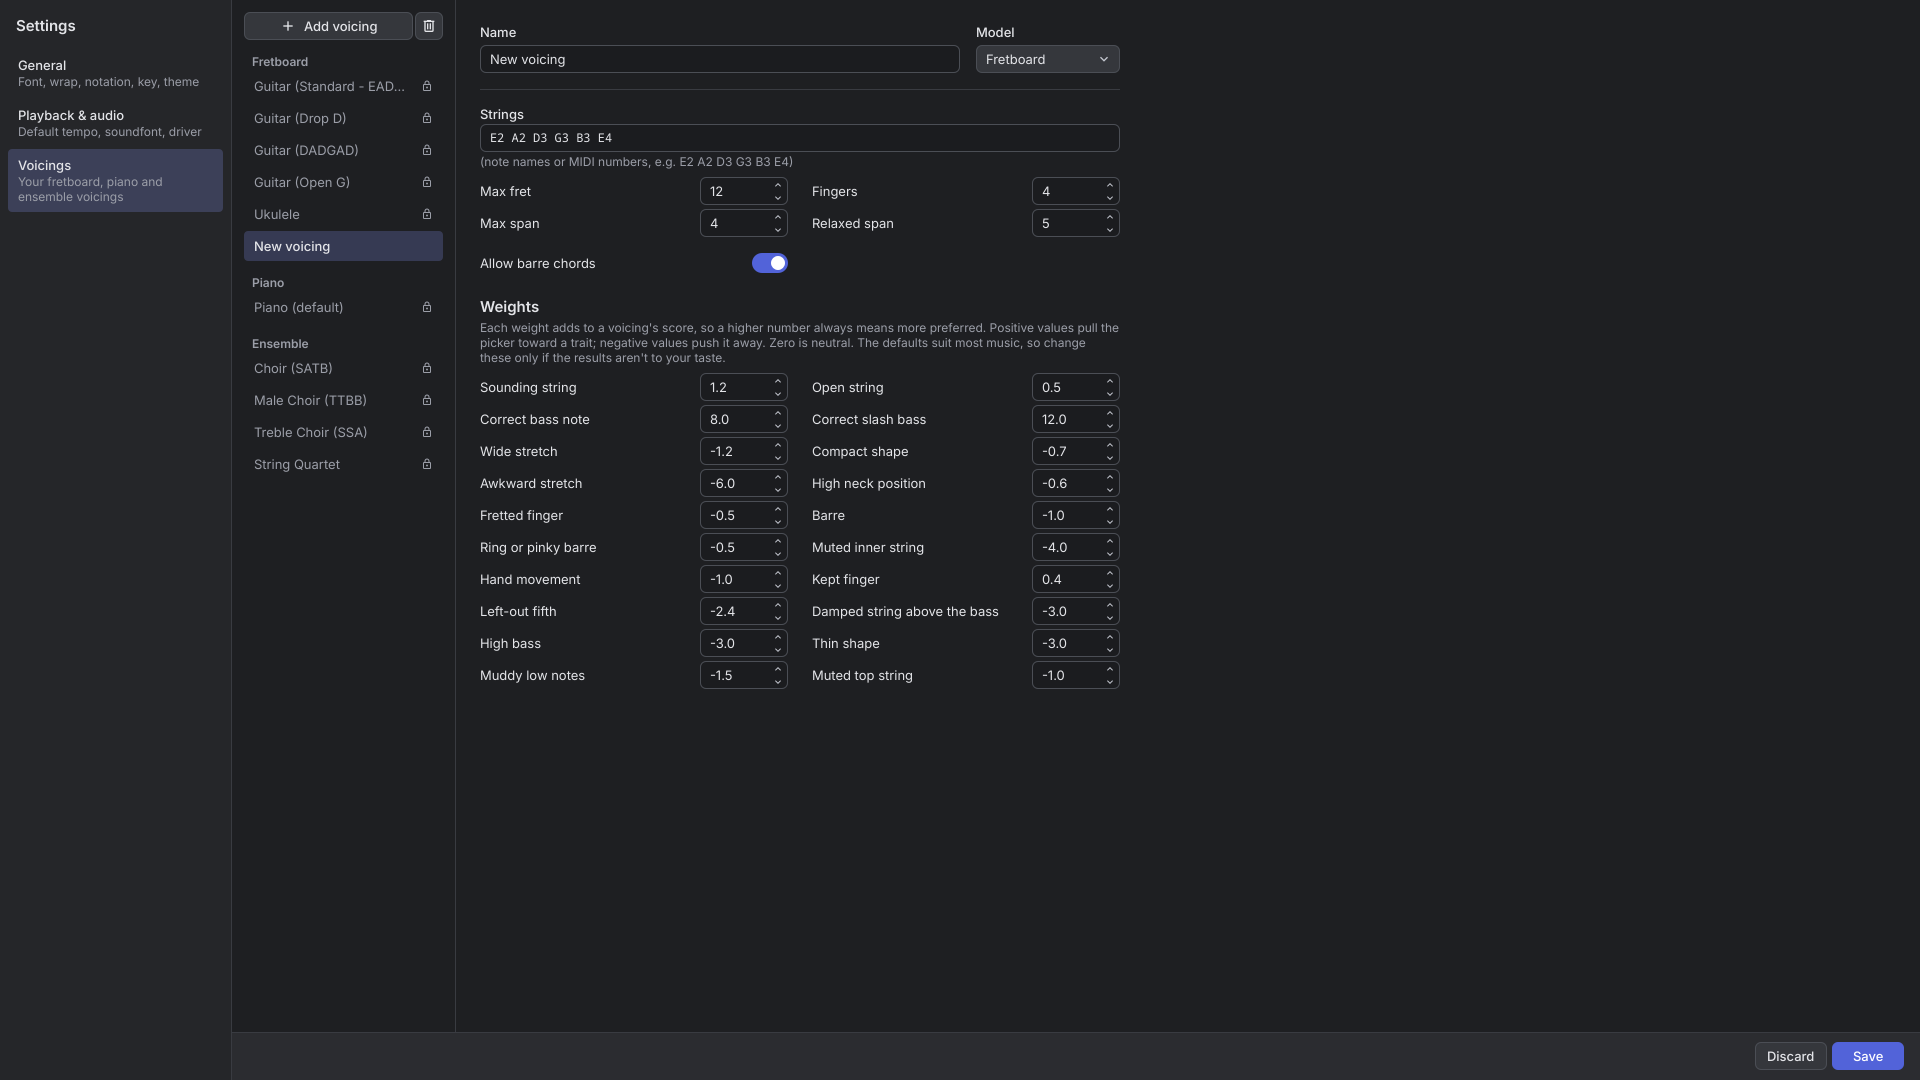
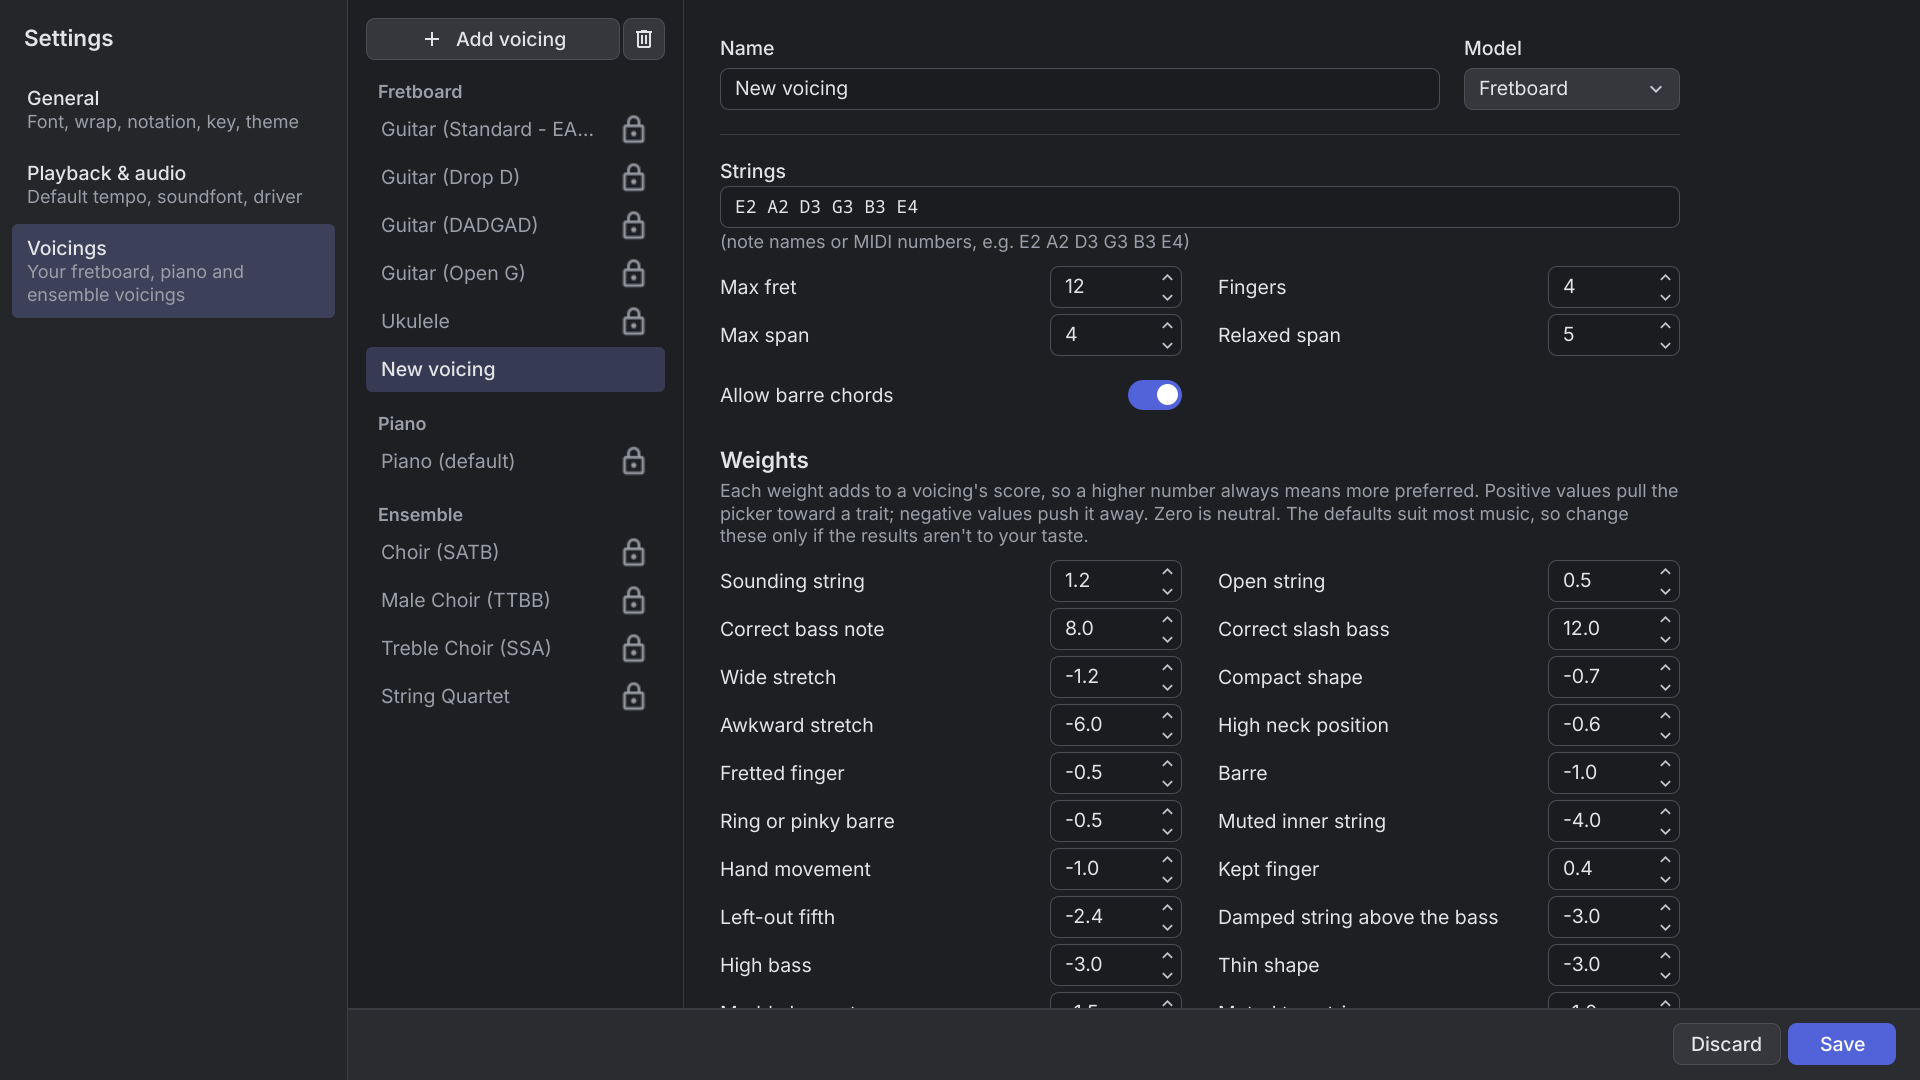
Store screenshots show a 1280x720 window at scale 1.5 (still 1920x1080 images), so the text and controls stay readable when the stores scale them down; a 1920x1080 window at scale 1 was half empty space

diff --git a/packaging/tools/qt_help_screenshots.py b/packaging/tools/qt_help_screenshots.py
@@ -627,9 +627,10 @@ def _quick_start_image(sc: Scene):
     sc.wait(1500)  # the new view paints a moment after the tab
 
 
-# The store listings (Microsoft Store, AppStream, the Snap Store): 1920x1080, the
-# window 1920x1080 at scale 1 (at 2x the icons come out cropped offscreen, see notes). Songs are the same public-domain two.
-STORE = dict(dest="store", size=(1920, 1080), quantize=False)
+# The store listings (Microsoft Store, AppStream, the Snap Store): 1920x1080, a
+# 1280x720 window at scale 1.5, so the stores' thumbnails stay readable (a
+# 1920x1080 window at scale 1 was half empty space). Songs are the same public-domain two.
+STORE = dict(dest="store", size=(1280, 720), scale=1.5, quantize=False)
 
 
 @shot("01-play-piano-roll", "store", "Amazing Grace playing, on the piano roll.", **STORE)
@@ -673,7 +674,7 @@ def _store_identifier(sc: Scene):
 
 
 @shot("06-voicings", "store", "Settings, a fretboard voicing.", window="settingsWindow",
-      size_window=(1920, 1080), **STORE)
+      size_window=(1280, 720), **STORE)
 def _store_voicings(sc: Scene):
     sc.song(*FAIR)
     sc.dialogs("openSettings", "voicings")
